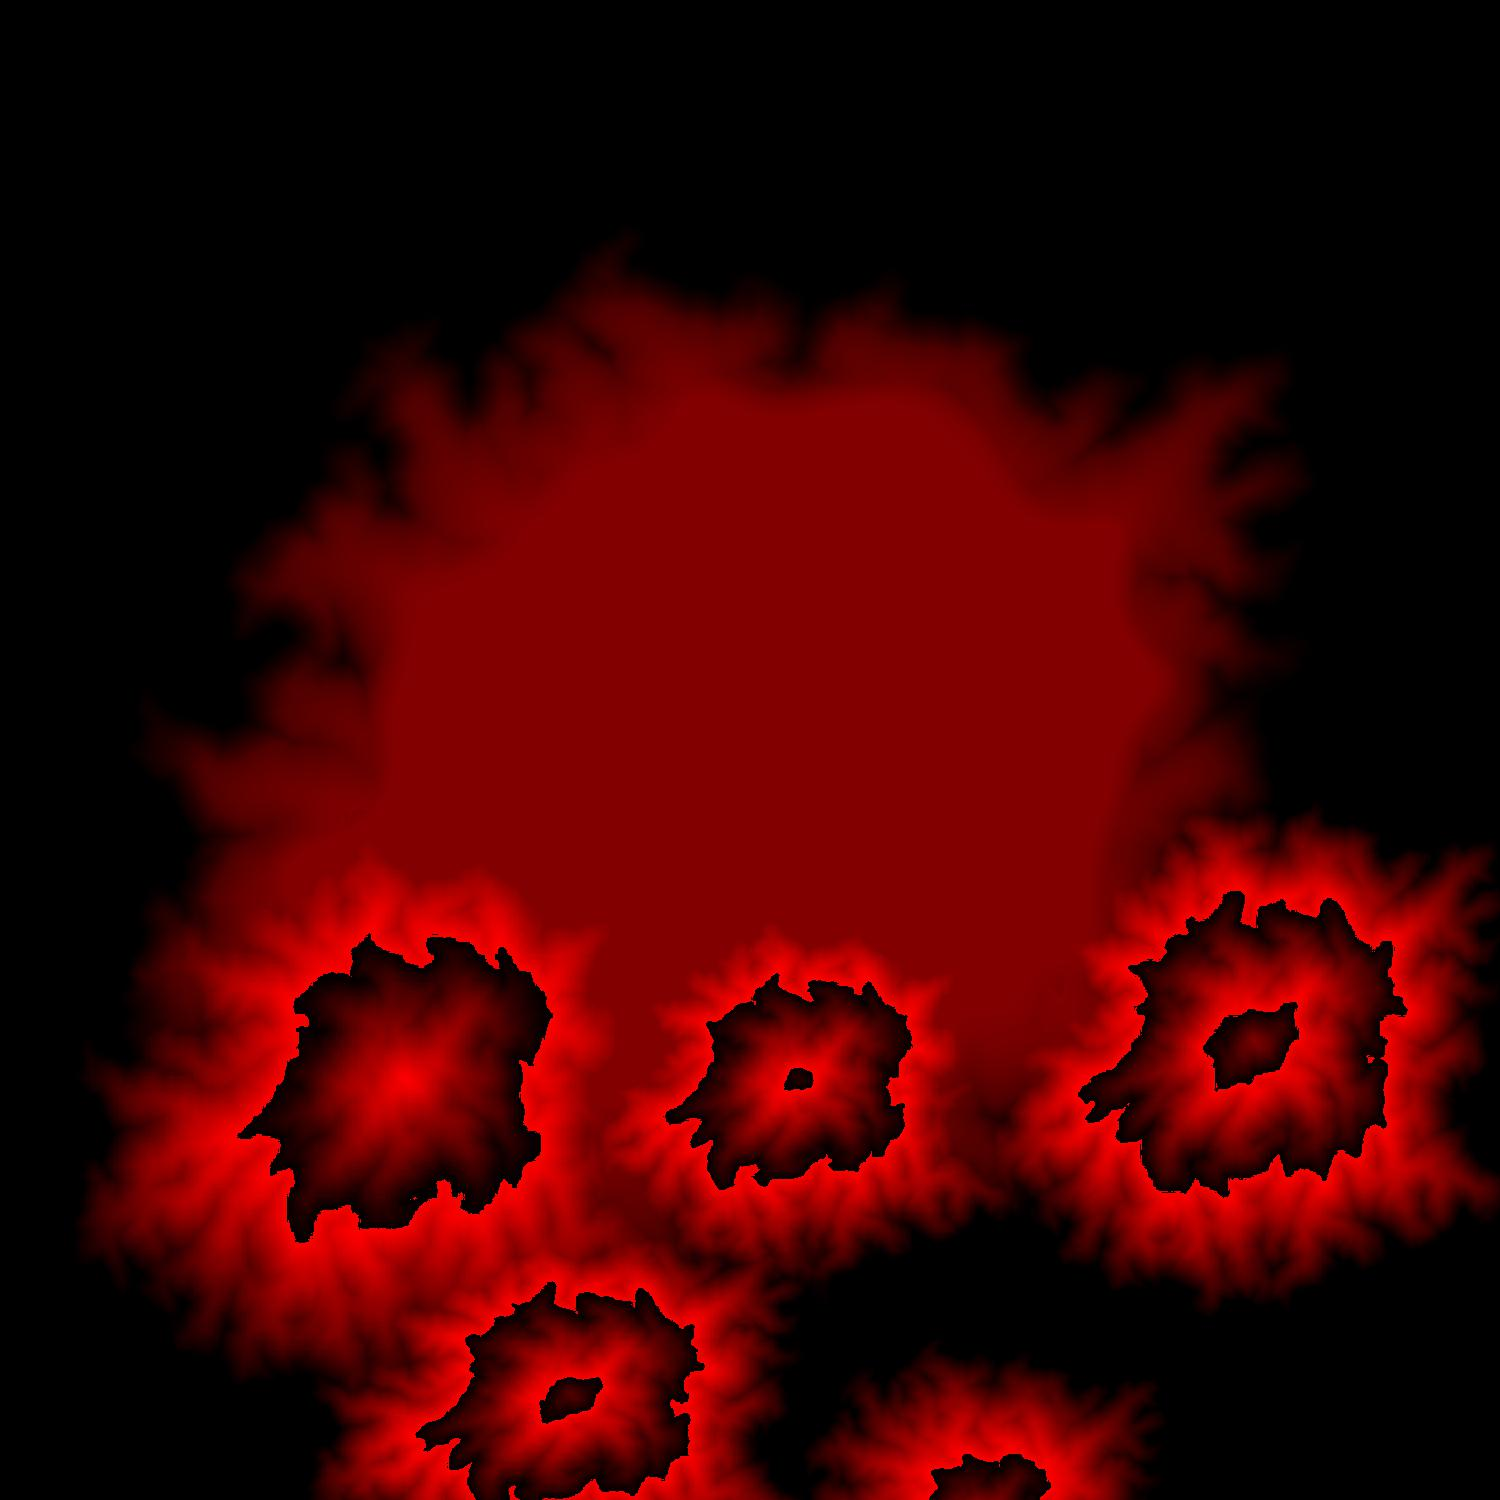
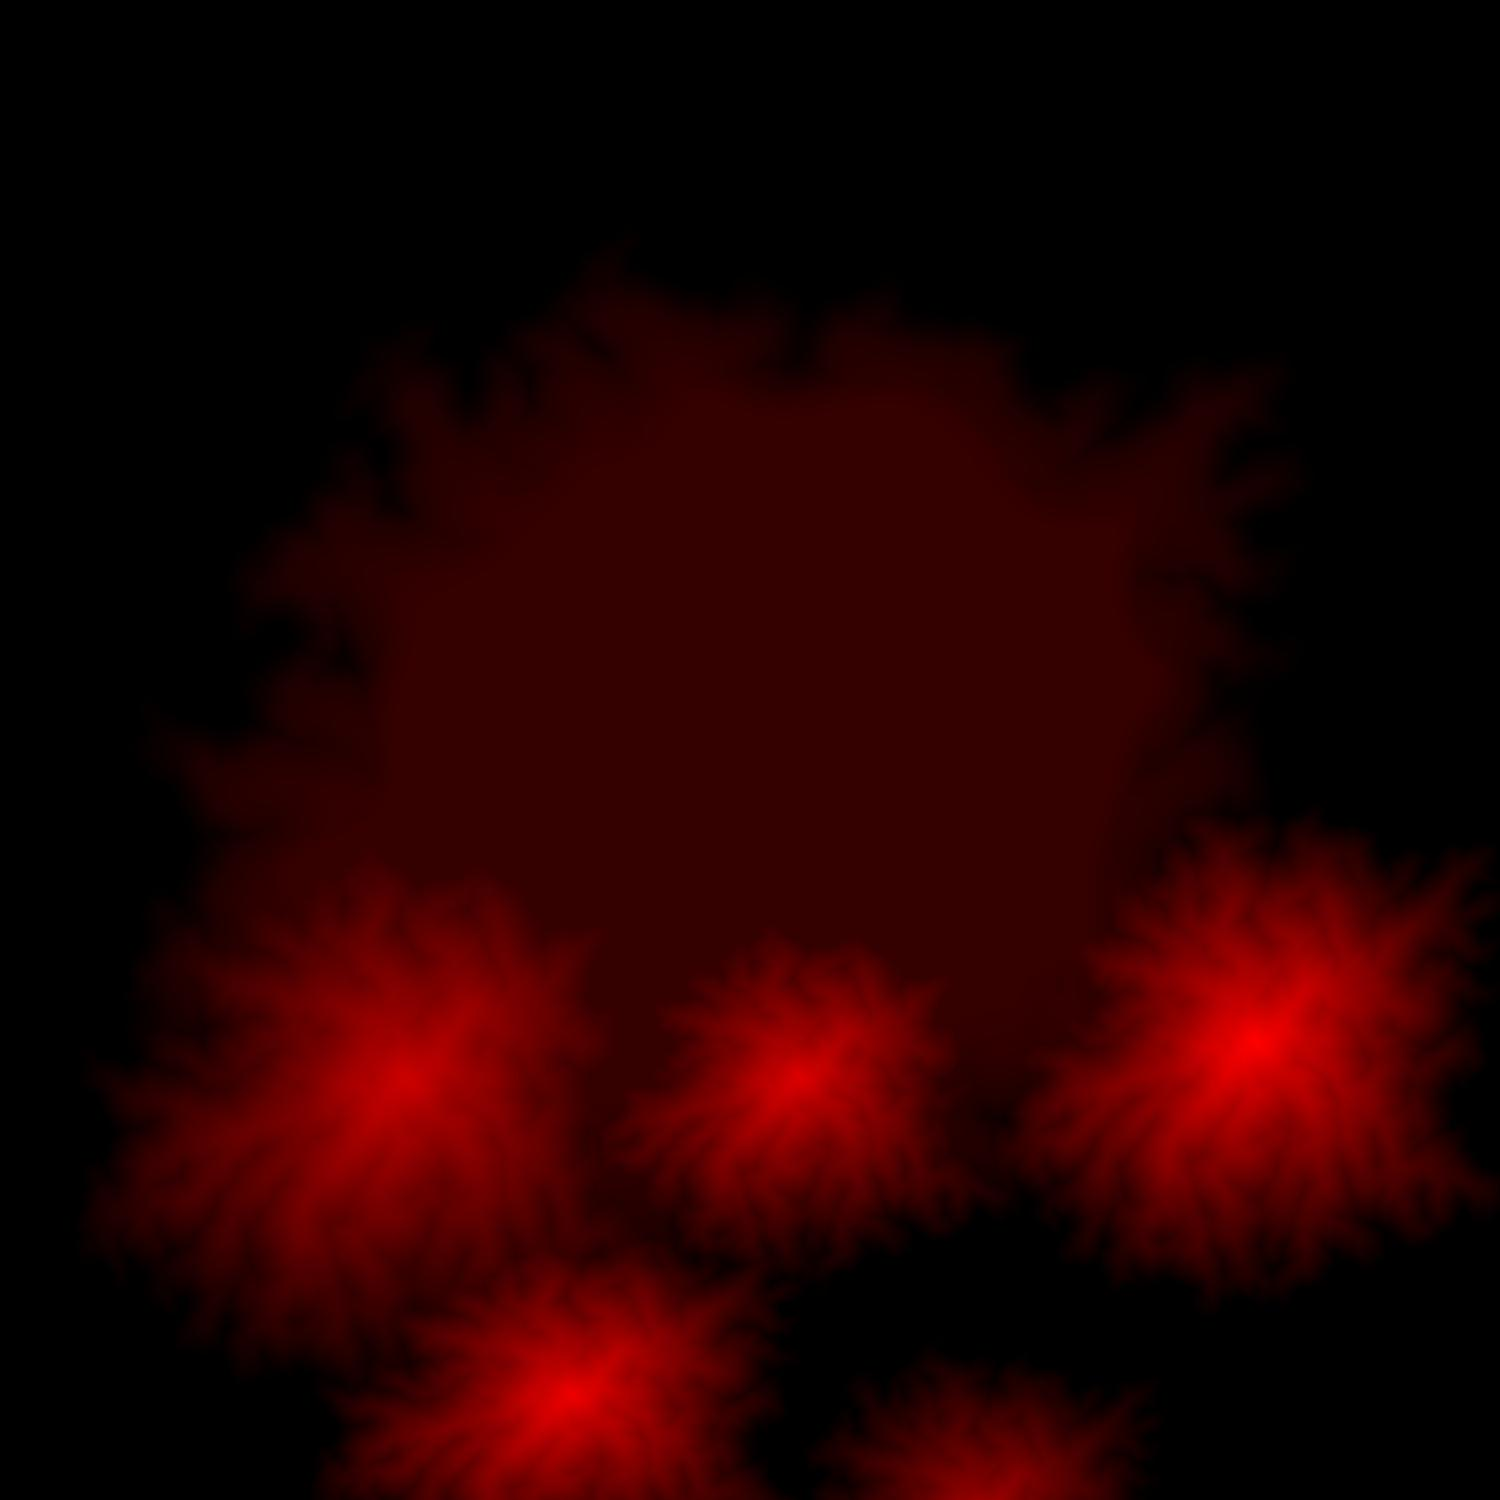
fog

diff --git a/Obligatorio2/Settings.cpp b/Obligatorio2/Settings.cpp
@@ -241,16 +241,16 @@ void Settings::setTerrainTexture()
 				{
 					primeraVez = false;
 					FreeImage_GetPixelColor(imagenes.at(l), (int)(j), (int)(k), &col);
-					maxColor.rgbRed = (int)((float)(col.rgbRed * tops.at(l)) / (float)60.0);
+					maxColor.rgbRed = (int)((float)(col.rgbRed * tops.at(l)) / (float)150.0);
 					maxColor.rgbGreen = 0;//Ojo con esto, lleno solo el rojo
 					maxColor.rgbBlue = 0;
 				}
 				else
 				{
 					FreeImage_GetPixelColor(imagenes.at(l), (int)(j), (int)(k), &col);
-					if ((float)(col.rgbRed * tops.at(l)) / (float)60.0 > maxColor.rgbRed)
+					if ((float)(col.rgbRed * tops.at(l)) / (float)150.0 > maxColor.rgbRed)
 					{
-						maxColor.rgbRed = (int)((float)(col.rgbRed * tops.at(l)) / (float)60.0);
+						maxColor.rgbRed = (int)((float)(col.rgbRed * tops.at(l)) / (float)150.0);
 					}
 				}
 					
@@ -274,9 +274,9 @@ float Settings::getHeightTerrain(float x, float z)
 	unsigned w = FreeImage_GetWidth(terrainTexture); 
 	unsigned h = FreeImage_GetHeight(terrainTexture);
 	bool col = FreeImage_GetPixelColor(terrainTexture, (int)((x/400.0)*w), (int)((z/-400.0)*h), &color);
-	//Considero que el top de todo es 60, por lo que para poner los colores, tengo que saber que despues lo voy a multiplicar por 60
+	//Considero que el top de todo es 150, por lo que para poner los colores, tengo que saber que despues lo voy a multiplicar por 60
 	if (col)
-		return (color.rgbRed / 255.0) * 60;
+		return (color.rgbRed / 255.0) * 150;
 	else
 		return -1;
 }

diff --git a/main.cpp b/main.cpp
@@ -112,7 +112,7 @@ void init(void)
 	AnimatedObject* policia = new AnimatedObject("models/policia/Dancing Twerk.dae", glm::vec3(0, 0, -1), 2, glm::vec3(172.5, 34, -189.3), glm::vec3(0, 1, 0), glm::vec3(0, 0, -1), anim);
 	AnimatedObject* zombie1 = new AnimatedObject("models/zombie2/Thriller Part 1.dae", glm::vec3(0, 0, -1), 2.5, glm::vec3(158.7, 33.8, -168), glm::vec3(0, 1, 0), glm::vec3(0, 0, 1), anim);
 	//AnimatedObject* zombie2 = new AnimatedObject("models/zombie/Thriller Part 3.dae", glm::vec3(0, 0, -1), 3, glm::vec3(162.5, 34, -165), glm::vec3(0, 1, 0), glm::vec3(0, 0, 1), anim);
-	Water* water = new Water(vec3(-60.f, 0.5f, 60.f), vec3(0.f, 1.f, 0.f), vec3(1.f, 0.f, 0.f), waterShader, 35, 520, 520, "modelos/water1.jpg");
+	Water* water = new Water(vec3(-60.f, 0.5f, 60.f), vec3(0.f, 1.f, 0.f), vec3(1.f, 0.f, 0.f), waterShader, 35, 1520, 1520, "modelos/water1.jpg");
 	std::vector<Texture> text;
 	Texture t2 = { Settings::TextureFromFile("modelos/grass2.jpg"), "texture_diffuse", "modelos/grass2.jpg" };
 	text.push_back(t2);
@@ -265,7 +265,7 @@ void draw(SDL_Window* window)
 	}
 
 	drawLights(projection, view);
-	skybox->Draw(view, projection);
+	//skybox->Draw(view, projection);
 
 	if (wireframe) glPolygonMode(GL_FRONT_AND_BACK, GL_FILL);
 	
